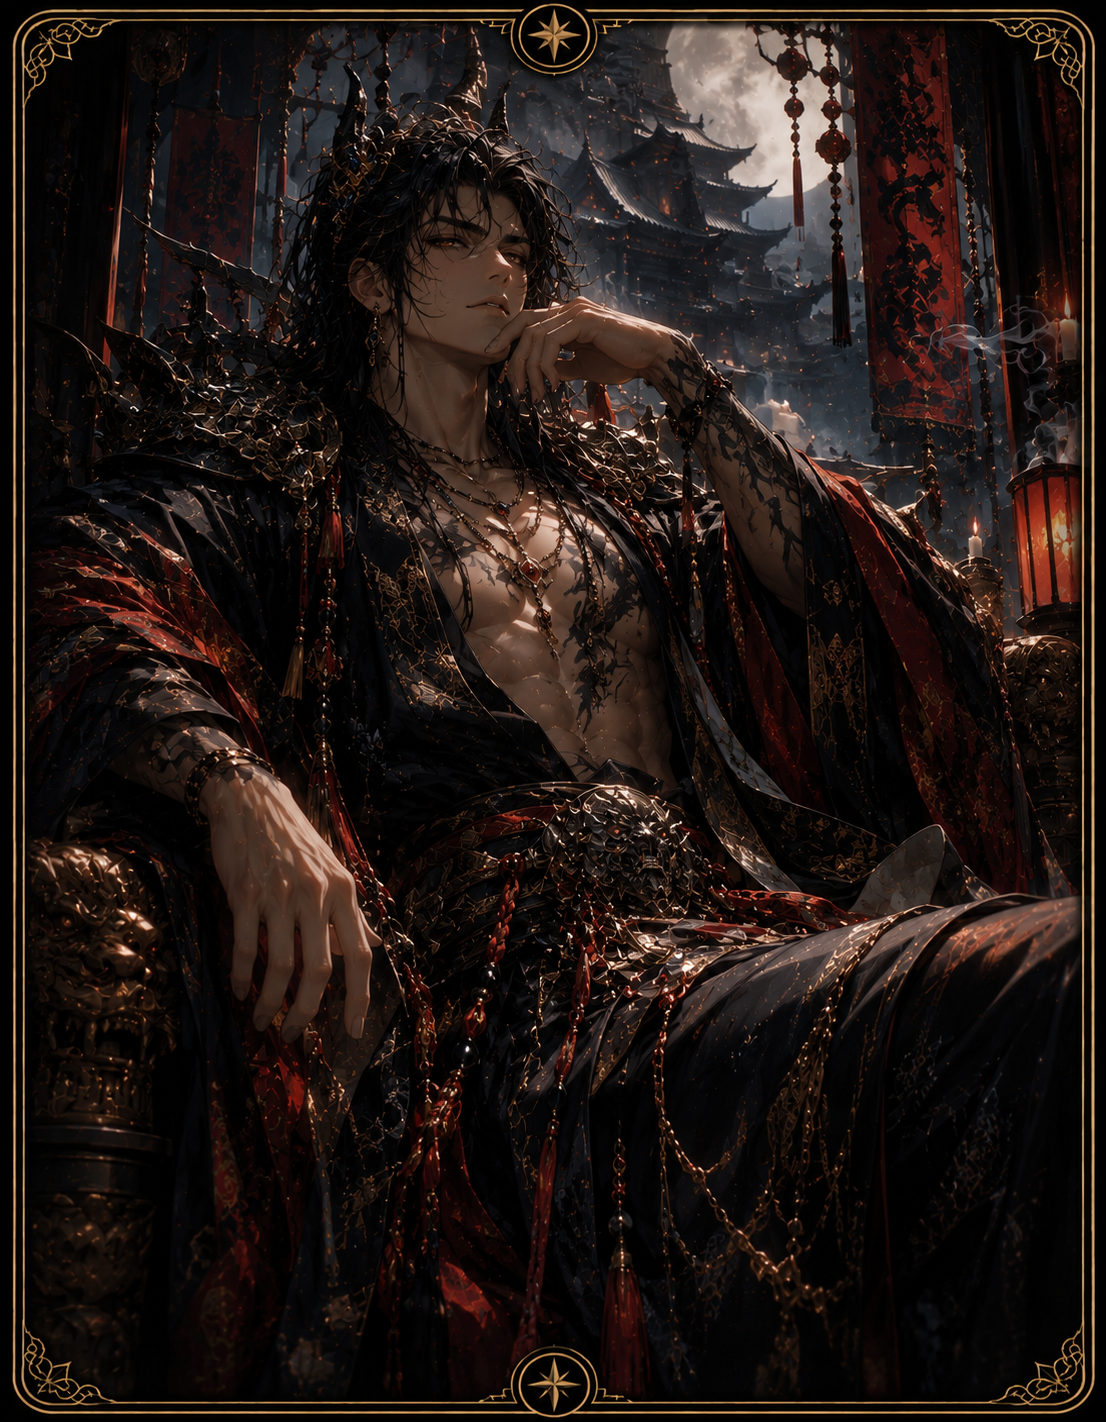
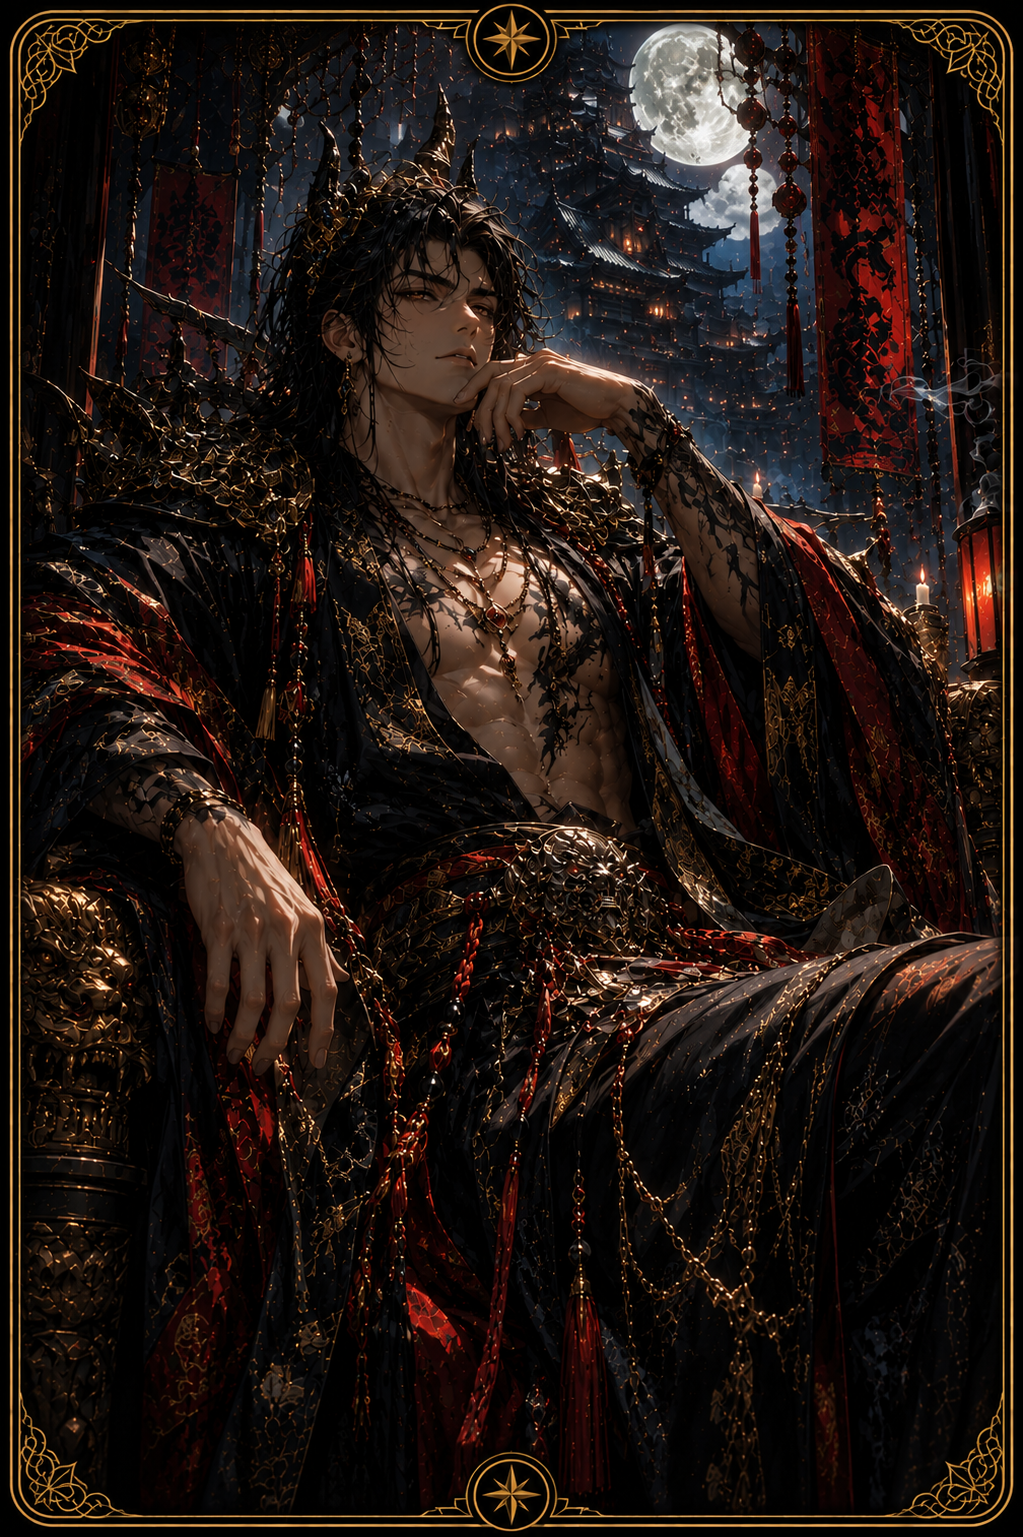
fix: 헤더 스트릭 배지 제거 + 흐름 카드에 보너스 +N 통합
- StreakBadge -> StreakNotifier (토스트만, UI 없음)
- 흐름 페이지 streak 카드를 /history 링크로 변환
- 보너스 가챠 크레딧 표시를 카드 우상단 배지로 합침
- 라엘/루나/귀염 새 이미지 v2 적용
- CharacterImage objectFit cover 추가

diff --git a/src/app/(dashboard)/today/page.tsx b/src/app/(dashboard)/today/page.tsx
@@ -16,13 +16,13 @@ import { StudyTips } from "@/components/fortune/study-tips";
 
 import Link from "next/link";
 import type { Route } from "next";
-import { BookMarked, Globe2, Flame } from "lucide-react";
+import { BookMarked, Globe2, Flame, Gift } from "lucide-react";
 import { GenerateFortuneForm } from "@/components/fortune/generate-fortune-form";
 import { QuotaBar } from "@/components/fortune/quota-bar";
 import { TodaySummary } from "@/components/fortune/today-summary";
 import { ZodiacBanner } from "@/components/fortune/zodiac-banner";
 import { OnboardingModal } from "@/components/onboarding/onboarding-modal";
-import { StreakBadge } from "@/components/streak/streak-badge";
+import { StreakNotifier } from "@/components/streak/streak-notifier";
 import type { DailyFortune } from "@/db/schema";
 import { requireProfile } from "@/lib/auth/get-user";
 import {
@@ -113,24 +113,22 @@ export default async function TodayPage({ searchParams }: TodayPageProps) {
   return (
     <div className="space-y-8">
       <OnboardingModal />
+      <StreakNotifier checkIn={streakResult} />
       <header className="space-y-3">
-        <div className="flex items-center justify-between gap-2">
-          <div>
-            <CrackAtmosphere
-              crackLevel={crackData.level}
-              todayStr={today}
-              pageName="오늘의 흐름"
-            />
-            {(() => {
-              const hidden = getHomeHiddenText(crackData.level);
-              return hidden ? (
-                <p className="text-[9px] text-muted-foreground/50 tracking-widest mt-0.5 font-mystic italic">
-                  {hidden}
-                </p>
-              ) : null;
-            })()}
-          </div>
-          <StreakBadge checkIn={streakResult} />
+        <div>
+          <CrackAtmosphere
+            crackLevel={crackData.level}
+            todayStr={today}
+            pageName="오늘의 흐름"
+          />
+          {(() => {
+            const hidden = getHomeHiddenText(crackData.level);
+            return hidden ? (
+              <p className="text-[9px] text-muted-foreground/50 tracking-widest mt-0.5 font-mystic italic">
+                {hidden}
+              </p>
+            ) : null;
+          })()}
         </div>
         <div>
           <h1
@@ -165,15 +163,26 @@ export default async function TodayPage({ searchParams }: TodayPageProps) {
           <span className="font-mystic text-sm font-semibold">세계</span>
           <span className="text-[10px] text-muted-foreground leading-tight">오늘의 흐름</span>
         </Link>
-        <div className="app-surface rounded-xl p-3 sm:p-4 flex flex-col items-start gap-1.5">
-          <Flame className="h-4 w-4 text-accent" aria-hidden />
+        <Link
+          href={ROUTES.history}
+          className="app-surface rounded-xl p-3 sm:p-4 flex flex-col items-start gap-1.5 transition-transform hover:-translate-y-0.5"
+        >
+          <div className="flex items-center gap-2 w-full">
+            <Flame className="h-4 w-4 text-accent" aria-hidden />
+            {streakResult.bonusGachaCredits > 0 && (
+              <span className="ml-auto flex items-center gap-0.5 rounded-full bg-primary/15 px-1.5 py-0.5 text-[9px] font-bold text-primary">
+                <Gift className="h-2.5 w-2.5" aria-hidden />
+                +{streakResult.bonusGachaCredits}
+              </span>
+            )}
+          </div>
           <span className="font-mystic text-sm font-semibold tabular-nums">
             {streakResult.currentStreak}일 연속
           </span>
           <span className="text-[10px] text-muted-foreground leading-tight">
             {streakResult.currentStreak >= 3 ? "흐름이 이어지고 있어요" : "기록이 쌓이고 있어요"}
           </span>
-        </div>
+        </Link>
       </div>
 
       <QuotaBar

diff --git a/src/components/streak/streak-notifier.tsx b/src/components/streak/streak-notifier.tsx
@@ -1,0 +1,50 @@
+"use client";
+
+/**
+ * 스트릭 마일스톤 토스트 알림만 담당하는 무 UI 컴포넌트.
+ * 시각적 표시는 today/page 의 카드가 담당한다.
+ */
+import { useEffect, useRef } from "react";
+import { toast } from "sonner";
+
+import type { CheckInResult } from "@/lib/streak/service";
+
+interface StreakNotifierProps {
+  checkIn: CheckInResult;
+}
+
+const MILESTONE_MESSAGES: Record<number, string> = {
+  3:  "3일 연속 출석 달성! 보너스 가챠 1회 지급됐어.",
+  7:  "7일 연속 달성! 보너스 가챠 2회 지급됐어.",
+  14: "14일 연속 달성! 보너스 가챠 2회 지급됐어.",
+  30: "30일 연속 달성! 보너스 가챠 3회 지급됐어.",
+};
+
+function getMilestoneMessage(streak: number, bonus: number): string | null {
+  if (bonus <= 0) return null;
+  return MILESTONE_MESSAGES[streak] ?? `${streak}일 연속 달성! 보너스 가챠 ${bonus}회 지급됐어.`;
+}
+
+export function StreakNotifier({ checkIn }: StreakNotifierProps) {
+  const { currentStreak, milestoneBonus, wasReset } = checkIn;
+  const notified = useRef(false);
+
+  useEffect(() => {
+    if (notified.current) return;
+    notified.current = true;
+
+    if (milestoneBonus > 0) {
+      const msg = getMilestoneMessage(currentStreak, milestoneBonus);
+      if (msg) {
+        setTimeout(() => toast.success(msg, { duration: 5000 }), 500);
+      }
+    } else if (wasReset && currentStreak === 1) {
+      setTimeout(
+        () => toast("스트릭이 초기화됐어. 오늘부터 다시 시작!", { duration: 3000 }),
+        300,
+      );
+    }
+  }, [currentStreak, milestoneBonus, wasReset]);
+
+  return null;
+}

diff --git a/src/components/shared/character-image.tsx b/src/components/shared/character-image.tsx
@@ -46,6 +46,13 @@ export function CharacterImage({
   const src = useCharacterImage(character);
   const imageAlt = alt ?? character.name;
 
+  // 새 이미지들은 비율이 다르므로 (1106x1422 vs 600x900) cover로 통일
+  const mergedStyle: React.CSSProperties = {
+    objectFit: "cover",
+    objectPosition: "center top",
+    ...style,
+  };
+
   if (fill) {
     return (
       <Image
@@ -56,7 +63,7 @@ export function CharacterImage({
         sizes={sizes}
         priority={priority}
         quality={quality}
-        style={style}
+        style={mergedStyle}
       />
     );
   }
@@ -71,7 +78,7 @@ export function CharacterImage({
       sizes={sizes}
       priority={priority}
       quality={quality}
-      style={style}
+      style={mergedStyle}
     />
   );
 }
